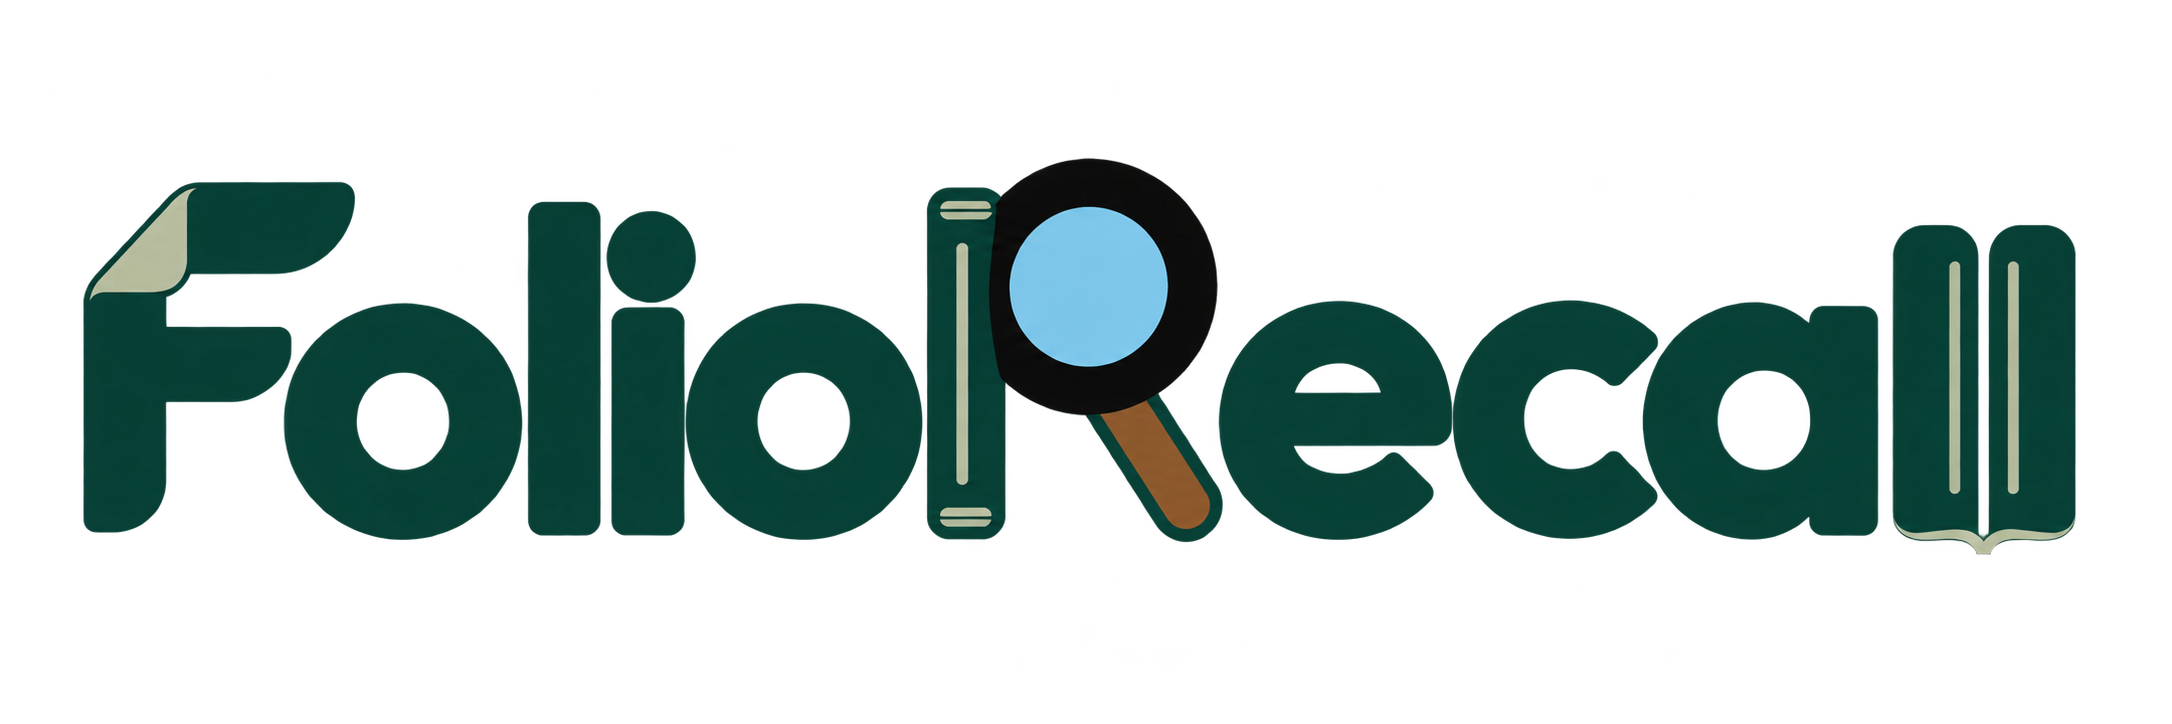
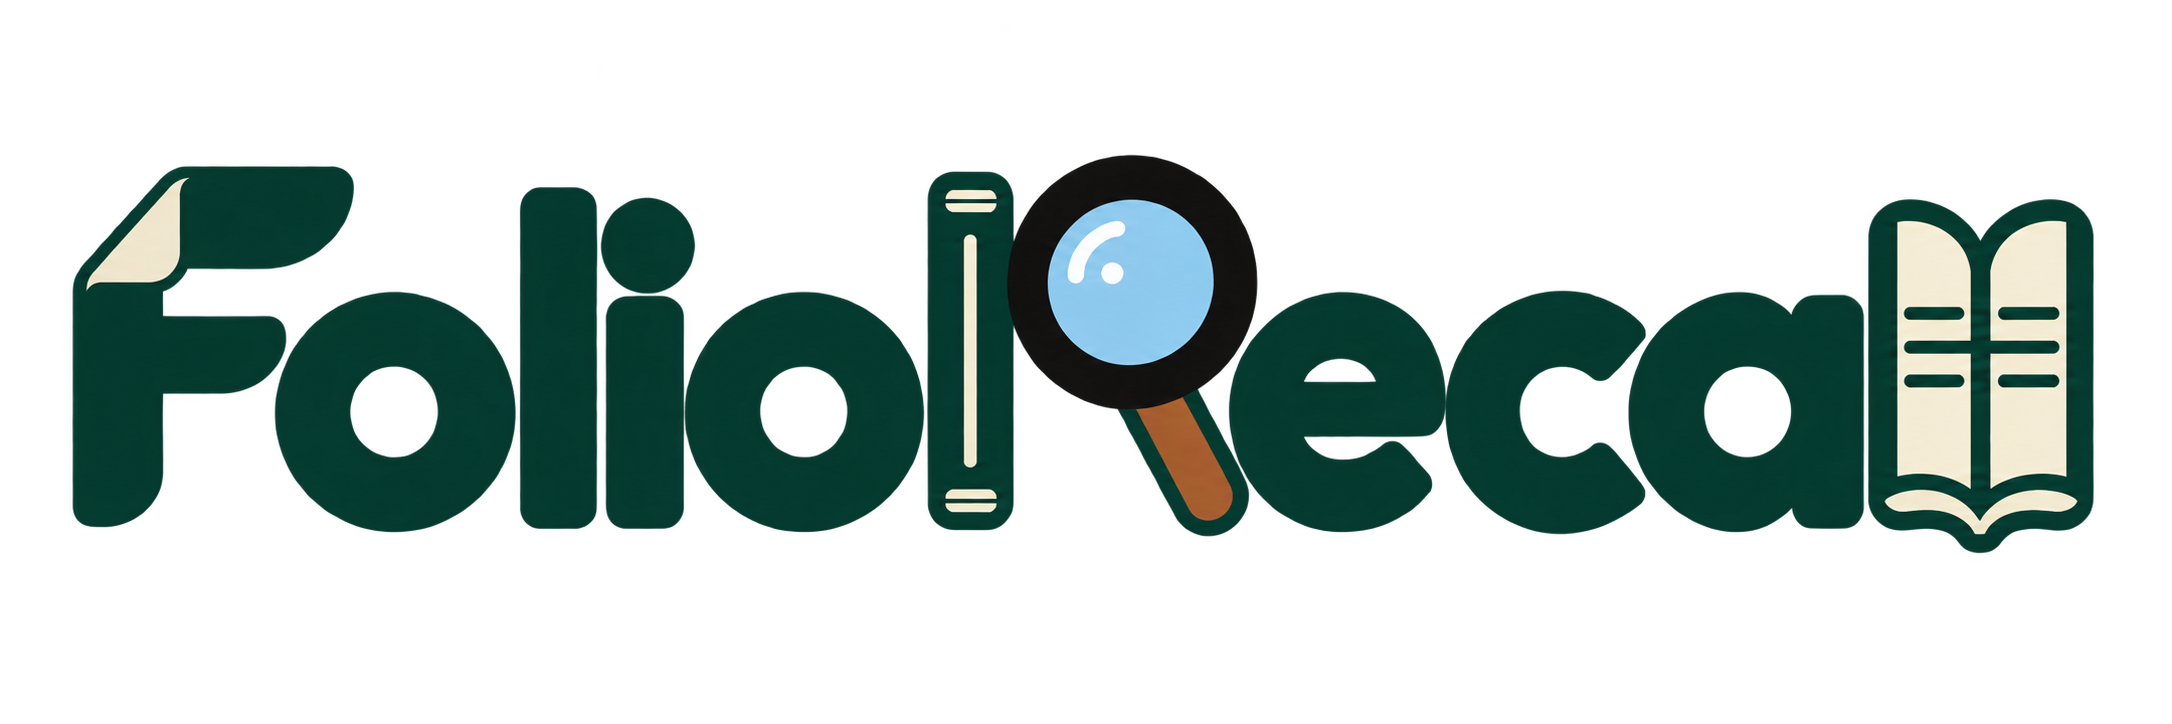
brand: 强化 ll 双页书本并完善镜框和镜片高光

diff --git a/doc/assets/logo-source.md b/doc/assets/logo-source.md
@@ -1,6 +1,6 @@
 # FolioRecall 标识
 
-完整字标由项目名称 FolioRecall 变形构成：F 的上横融入翻页折角，R 左侧的竖立书本构成竖笔，右侧放大镜构成圆部与斜腿；末尾两个 l 保留清晰竖笔，以底部页边和书脊连接成一本书。首字母 F 单独用于浏览器图标。书本与字母采用深绿和灰绿；放大镜使用黑色边框、棕色镜柄与天蓝色镜片，图形外围保留透明底；页寻使用界面文字显示。完整项目名同时保留在README标题、图片替代文字和浏览器标题中。
+完整字标由项目名称 FolioRecall 变形构成：F 的上横融入翻页折角，R 左侧的竖立书本构成竖笔，右侧放大镜构成圆部与斜腿；末尾两个 l 保留清晰竖笔，以浅色双页、文字横线、底部页层和书脊表现一本展开的书。首字母 F 单独用于浏览器图标。书本与字母采用深绿和灰绿；放大镜使用黑色边框、棕色镜柄与带白色高光的天蓝色镜片，圆框完整显示并与左侧书本相接；图形外围保留透明底；页寻使用界面文字显示。完整项目名同时保留在README标题、图片替代文字和浏览器标题中。
 
 资源由 OpenAI 内置 image_gen 生成，未使用上游项目标识。原图为 `foliorecall-wordmark.png` 和 `foliorecall-lettermark.png`；前端与README使用 `foliorecall/assets/wordmark.png`，浏览器图标使用同目录 `logo.png`。附带发布包的 `branding` 目录提供原图和显示尺寸。
 
@@ -66,4 +66,16 @@ Use case: logo-brand. Precisely edit the supplied FolioRecall logo. Follow this 
 
 ```text
 Precise recolor edit of this existing FolioRecall logo. Preserve the exact shapes, layout, letterforms, folded F, upright book forming the left stem of R, and terminal ll-book. Change ONLY the magnifying glass forming the RIGHT HALF of the central R: (1) make the circular lens frame BLACK (#111111); (2) make the entire diagonal magnifying-glass HANDLE BROWN (#8B5A2B), not sage or green, retaining its existing outline/shape; (3) fill the currently empty circular lens interior with SKY BLUE (#87CEEB) so it visibly reads as a glass lens. Flat clean blue fill, no invented objects or lettering inside the lens, no gradients or photorealistic reflections. Do not recolor the upright BOOK TO THE LEFT of the magnifier; that book and ALL other letters remain their original dark teal and sage. Outside the artwork maintain genuine background transparency. Preserve the integrated capital R silhouette and the legible final ll that together form a book. No added symbols, no shadow, no new text, no other redesign. One horizontal wordmark at the same composition.
+```
+
+## 完整圆框、高光与双页书本
+
+保留左书右镜，右移放大镜以完整显示圆框，增加镜片高光。末尾ll加强为浅色双页、文字横线与页层，外侧竖笔保留字母特征。以下为内置image_gen的三次定向编辑提示，当前资源使用最后一次结果。
+
+```text
+Precisely refine this existing FolioRecall logo; preserve all unrelated letters, folded F, palette and transparent background. Three requested changes: 1. In the central R, SHIFT THE ENTIRE MAGNIFYING GLASS SLIGHTLY RIGHT so its black circular outer frame is completely visible through all 360 degrees. The circle's leftmost outer edge should be externally TANGENT to the right edge of the upright green book that is the R's left stem: touch at ONE POINT, no overlapping, no covered or flattened portion of the ring, no gap. Preserve the black frame, brown handle and sky-blue lens. Maintain clear space before the next e, moving the following letters slightly if necessary rather than overlapping them. 2. Add two restrained white glass highlights INSIDE the blue lens: a clean curved reflection near the upper-left inner edge and a smaller soft glint nearby. Make the lens recognizable as glass, but retain the simple flat logo style; no photorealism, no exterior shadows. 3. Make the terminal ll pair more recognizably ONE OPEN BOOK while keeping TWO CLEAR LOWERCASE l LETTERS. Preserve two tall separated upright strokes, approximately the same height as the earlier l in Folio. Add visible cream/sage paper edges along their inner sides, shallow curved top and bottom page profiles that converge into one central gutter, and a slim dark-teal outer cover. The dominant silhouette must still read ll, not m/n/U and not a generic wide squat book. The added page detailing should make those two stems read as the two facing halves of ONE slim upright open book. Keep those details legible and uncluttered at small size. Do not modify the upright book forming R's left stem beyond what is necessary for the tangent contact. One horizontal logo, exact readable name FolioRecall, genuine transparent background.
+
+One geometric correction only to this logo. The black magnifying-glass ring is still partly hidden by the green vertical book to its LEFT. Move the ENTIRE magnifying glass (black ring, blue highlighted lens, brown handle) approximately 35 pixels to the RIGHT on this 2172-pixel-wide canvas. Keep the green vertical book FIXED. Render the black ring as a complete perfect circle with its full left curved outer boundary visible from top to bottom. Its leftmost edge should just TOUCH the green book's right edge at a single tangent point at the circle's horizontal centerline. Above and below that single point there must be transparent gaps revealing the circular contour. No vertical flat clipping of the circle, no book overlaid on the ring, no overlap. Move the following ecall slightly right only if necessary to retain spacing. Preserve the enhanced final ll-book, existing white lens highlights, all colors, folded F and all other letterforms. This is a translation of the magnifier, not a redesign. Genuine transparent background.
+
+Edit ONLY the terminal ll/book unit at the far right of this logo. The current two thin curved cream stripes do not look enough like a book. Make it UNMISTAKABLY ONE OPEN BOOK WITH TWO FACING PAGES, while retaining two distinct lowercase l-like dark-teal upright stems as the outer structure. Replace the narrow interior stripes with TWO BROAD WARM-IVORY PAPER SURFACES, one left page and one right page, separated by a clearly visible deep central gutter. Each page has 2 or 3 tiny restrained horizontal dark-teal text rules. Show a curved top edge and layered bottom page edges meeting at the central spine, and a dark-teal outer cover. Keep the book TALL AND NARROW, roughly the combined footprint of the two current l letters, not a wide horizontal generic book. The two tall dark-teal outside stems should remain individually readable as ll, with short feet into the bottom cover. Light paper fill and the two-page silhouette should provide the obvious book reading; do not merely draw another pair of long cream stripes. Do not add the letters ll separately beside the book. Preserve the rest of the logo EXACTLY: folded F, other letters, complete black magnifying-glass circle tangent to the green vertical book on its left, blue lens with white highlights, brown handle. No changes to that R composition. Same layout, transparent background, flat clean logo, no shadows. One finished horizontal wordmark.
 ```

diff --git a/doc/多模态文档检索项目开发计划.md b/doc/多模态文档检索项目开发计划.md
@@ -45,7 +45,7 @@ GitHub 仓库名：`FolioRecall`。英文副标题：Page-level visual document 
 
 ### 当前开发重点
 
-**2026-10-14项目字标更新。** FolioRecall 名称直接构成标识，F 使用页面折角，R 左侧为竖立书本，右侧为黑框、棕柄、天蓝色镜片的放大镜；末尾 ll 保留清晰竖笔，以页边连接成一本书；前端标题和双语README采用完整字标，浏览器图标采用首字母F。原图、透明底显示尺寸和生成提示已保存，资源随wheel及源码包提供；完整候选同步，前一版整包保留在 `before-logo`。仓库外安装、浏览器字标显示及免费检索检查通过。本轮只调整品牌资源与展示，不改变检索、问答方法或评测结论，不新增百炼调用。仍等待用户审核，不推送或发布。
+**2026-10-14项目字标更新。** FolioRecall 名称直接构成标识，F 使用页面折角，R 左侧为竖立书本，右侧为完整黑框、棕柄及带高光天蓝镜片的放大镜；末尾 ll 用浅色双页、文字横线和页层加强书本特征，外侧保留字母竖笔；前端标题和双语README采用完整字标，浏览器图标采用首字母F。原图、透明底显示尺寸和生成提示已保存，资源随wheel及源码包提供；完整候选同步，前一版整包保留在 `before-logo`。仓库外安装、浏览器字标显示及免费检索检查通过。本轮只调整品牌资源与展示，不改变检索、问答方法或评测结论，不新增百炼调用。仍等待用户审核，不推送或发布。
 
 **2026-10-14首次使用体验更新。** 接续 `61c656d`，来源显示改为去除扩展名、出版编号并截短的文件名简称，完整名称仍见提示、原页详情、检索明细和JSON，原引用ID与运行记录不变。顶部显示当前文档库，首问示例直接可见，依赖上文与需要新会话的示例分开说明；点击只填入问题和模式，不自动生成。配置生成服务时默认进入文档问答，免费服务仍显示页面检索。10项相关测试通过，仓库外安装后的浏览器检查覆盖默认页、示例填写、来源简称与原页跳转；问答仅使用模拟生成器，无新增API费用。候选wheel、源码、文档和截图同步，原整包保存在 `before-onboarding`。仍待用户审核，不推送；历史下载落盘未确认的局限保留。
 

diff --git a/doc/首版使用与评测.md b/doc/首版使用与评测.md
@@ -4,7 +4,7 @@
 
 ## v0.1.0 最终候选整合（2026-10-14）
 
-**项目标识。** 前端与双语README使用 FolioRecall 字形标识，F 的折角对应页面，R 左侧为竖立书本，右侧为黑框、棕柄、天蓝色镜片的放大镜；末尾 ll 保留清晰竖笔，以页边连接成一本书；浏览器标签采用F小图标。透明底原图、显示尺寸及生成提示见[资源说明](assets/logo-source.md)。标识使用内置image_gen生成，导出脚本只裁边、增加留白并缩放；不涉及模型或问答配置。wheel包含前端资源，发布附件的 `branding` 目录另附原图。仓库外安装后，实际浏览器检查了字标显示和免费ONNX检索，favicon响应与包内PNG一致；没有新增问答调用。前一版候选保留在 `before-logo`。
+**项目标识。** 前端与双语README使用 FolioRecall 字形标识，F 的折角对应页面，R 左侧为竖立书本，右侧为完整黑框、棕柄及带高光天蓝镜片的放大镜；末尾 ll 用浅色双页、文字横线和页层加强书本特征，外侧保留字母竖笔；浏览器标签采用F小图标。透明底原图、显示尺寸及生成提示见[资源说明](assets/logo-source.md)。标识使用内置image_gen生成，导出脚本只裁边、增加留白并缩放；不涉及模型或问答配置。wheel包含前端资源，发布附件的 `branding` 目录另附原图。仓库外安装后，实际浏览器检查了字标显示和免费ONNX检索，favicon响应与包内PNG一致；没有新增问答调用。前一版候选保留在 `before-logo`。
 
 **首次使用与来源显示。** 顶部显示实际文档库的文档数、页数和文件名简称。简称仅用于检索预览、引用、折叠原页及执行步骤；完整文件名保留在提示、展开原页、检索明细与JSON，检索排名、引用ID及模型输入不变。启用生成服务时默认打开文档问答；免费服务默认页面检索。
 
